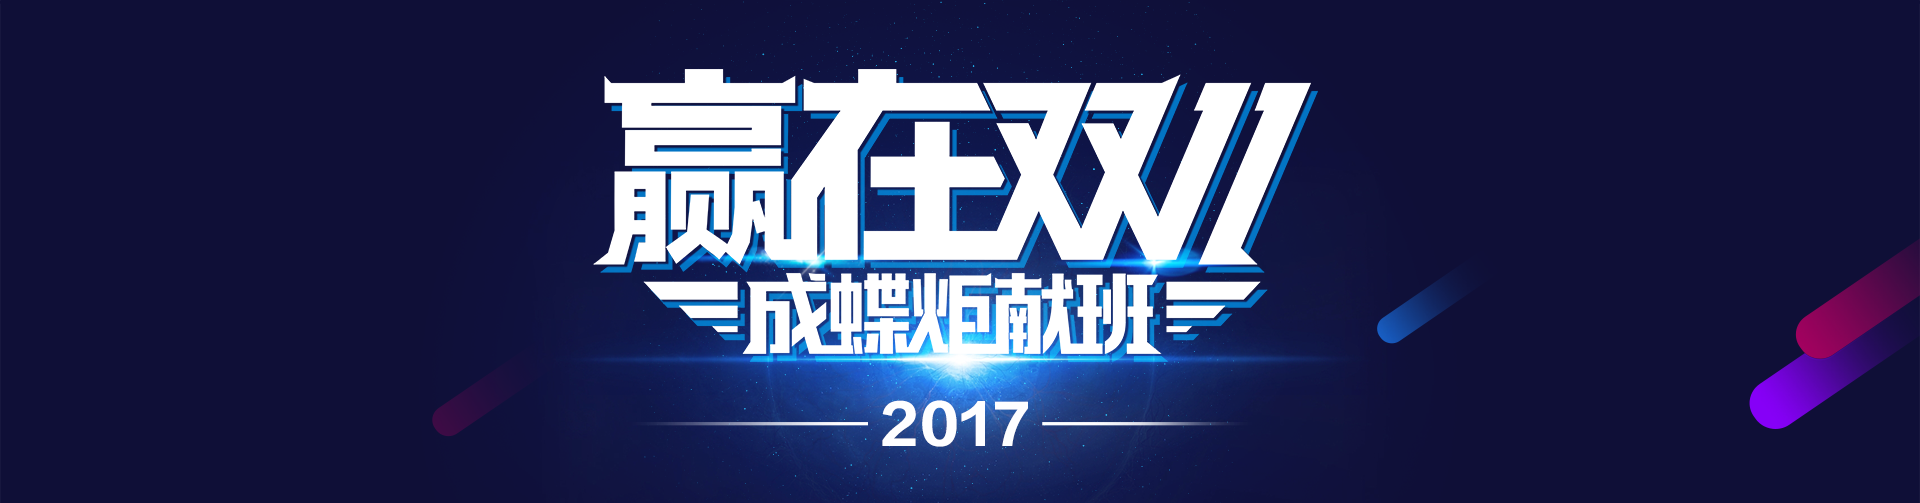
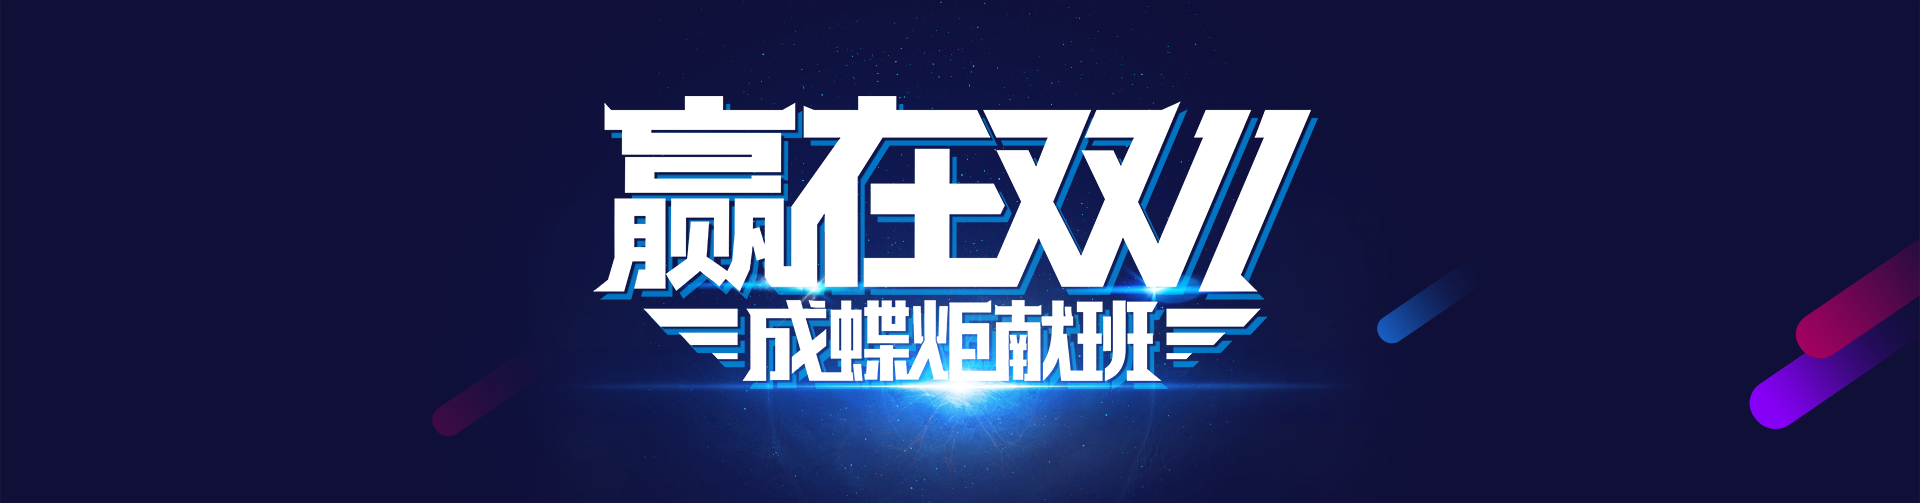
201709072237

Changed region(s): [[0.3125, 0.1193, 0.6875, 0.9245]]

diff --git a/borken.html b/borken.html
@@ -21,9 +21,26 @@
   <script type="text/javascript" src="js/broken.js"></script>
   <script type="text/javascript" src="js/common.js"></script>
 
+
+	<script>
+var _hmt = _hmt || [];
+(function() {
+  var hm = document.createElement("script");
+  hm.src = "https://hm.baidu.com/hm.js?81715133633c055f7a6b95026a4746d7";
+  var s = document.getElementsByTagName("script")[0]; 
+  s.parentNode.insertBefore(hm, s);
+})();
+</script>
+
+<script>(function() {var _53code = document.createElement("script");_53code.src = "https://tb.53kf.com/code/code/10097681/1";var s = document.getElementsByTagName("script")[0]; s.parentNode.insertBefore(_53code, s);})();
+</script>
+
 </head>
 
 <body>
+
+
+
 
 	  <div class="m-TD">
         <ul>
@@ -32,7 +49,7 @@
         </ul>
     </div>
 
-	<header class="header">
+  <header class="header">
     <div class="fixedWidth LogoT">
       <!--Logo-->
         <div class="LogoLeft ">          
@@ -67,23 +84,23 @@
     <div class="navTop">
           <ul class="nvavTopUl fixedWidth">
             <li class="navTopLi">
-              <a href="http://sz.pj.judingli.com?1" target="_blank" class="TopABtn">首页</a>
+              <a href="http://sz.pj.judingli.com?1" class="TopABtn">首页</a>
             </li>
 
             <li class="navTopLi">
-              <a href="http://sz.pj.judingli.com?2" target="_blank" class="TopABtn">培训课程</a>
+              <a href="http://sz.pj.judingli.com?2"  class="TopABtn">培训课程</a>
             </li>
 
             <li class="navTopLi">
-              <a href="http://sz.fh.judingli.com?3" target="_blank" class="TopABtn">电商孵化</a>
+              <a href="http://sz.fh.judingli.com?3" class="TopABtn">电商孵化</a>
             </li>
 
             <li class="navTopLi">
-              <a href="http://sz.11.judingli.com?4" target="_blank" class="TopABtn">双11特训营</a>
+              <a href="http://sz.11.judingli.com?4"  class="TopABtn">双11特训营</a>
             </li>
 
             <li class="navTopLi">
-              <a href="http://sz.sl.judingli.com?5" target="_blank" class="TopABtn">实力保障</a>
+              <a href="http://sz.sl.judingli.com?5"  class="TopABtn">实力保障</a>
             </li>
 
             <li class="navTopLi">
@@ -92,7 +109,7 @@
           </ul>
     </div>
 
-	</header>
+  </header>
 
 	<!--banner-->	
 	<div class="bannerCon">
@@ -321,7 +338,7 @@
 								Day04
 							</div>
 							<div class="sixDayS">
-								活动+绩效
+								运营决策玩法解析
 							</div>
 						</div>
 						<div class="hidetraingleD">
@@ -337,7 +354,7 @@
 								Day05
 							</div>
 							<div class="sixDayS">
-								数据化选品
+								活动+绩效
 							</div>
 						</div>
 						<div class="hidetraingleD">

diff --git a/Our.html b/Our.html
@@ -20,6 +20,18 @@
   <script type="text/javascript" src="js/jquery-1.11.3.min.js"></script>
   <script type="text/javascript" src="js/our.js"></script>
   <script type="text/javascript" src="js/common.js"></script>
+  <script>
+var _hmt = _hmt || [];
+(function() {
+  var hm = document.createElement("script");
+  hm.src = "https://hm.baidu.com/hm.js?81715133633c055f7a6b95026a4746d7";
+  var s = document.getElementsByTagName("script")[0]; 
+  s.parentNode.insertBefore(hm, s);
+})();
+</script>
+
+<script>(function() {var _53code = document.createElement("script");_53code.src = "https://tb.53kf.com/code/code/10097681/1";var s = document.getElementsByTagName("script")[0]; s.parentNode.insertBefore(_53code, s);})();
+</script>
 
 </head>
 
@@ -67,23 +79,23 @@
     <div class="navTop">
           <ul class="nvavTopUl fixedWidth">
             <li class="navTopLi">
-              <a href="http://sz.pj.judingli.com?1" target="_blank" class="TopABtn">首页</a>
+              <a href="http://sz.pj.judingli.com?1" class="TopABtn">首页</a>
             </li>
 
             <li class="navTopLi">
-              <a href="http://sz.pj.judingli.com?2" target="_blank" class="TopABtn">培训课程</a>
+              <a href="http://sz.pj.judingli.com?2"  class="TopABtn">培训课程</a>
             </li>
 
             <li class="navTopLi">
-              <a href="http://sz.fh.judingli.com?3" target="_blank" class="TopABtn">电商孵化</a>
+              <a href="http://sz.fh.judingli.com?3" class="TopABtn">电商孵化</a>
             </li>
 
             <li class="navTopLi">
-              <a href="http://sz.11.judingli.com?4" target="_blank" class="TopABtn">双11特训营</a>
+              <a href="http://sz.11.judingli.com?4"  class="TopABtn">双11特训营</a>
             </li>
 
             <li class="navTopLi">
-              <a href="http://sz.sl.judingli.com?5" target="_blank" class="TopABtn">实力保障</a>
+              <a href="http://sz.sl.judingli.com?5"  class="TopABtn">实力保障</a>
             </li>
 
             <li class="navTopLi">

diff --git a/fuhua.html b/fuhua.html
@@ -21,6 +21,21 @@
   <script type="text/javascript" src="js/fuhua.js"></script>
   <script type="text/javascript" src="js/common.js"></script>
 
+
+  <script>
+var _hmt = _hmt || [];
+(function() {
+  var hm = document.createElement("script");
+  hm.src = "https://hm.baidu.com/hm.js?81715133633c055f7a6b95026a4746d7";
+  var s = document.getElementsByTagName("script")[0]; 
+  s.parentNode.insertBefore(hm, s);
+})();
+</script>
+
+<script>(function() {var _53code = document.createElement("script");_53code.src = "https://tb.53kf.com/code/code/10097681/1";var s = document.getElementsByTagName("script")[0]; s.parentNode.insertBefore(_53code, s);})();
+</script> 
+
+
 </head>
 <body>
     <div class="m-TD">
@@ -65,23 +80,23 @@
     <div class="navTop">
           <ul class="nvavTopUl fixedWidth">
             <li class="navTopLi">
-              <a href="http://sz.pj.judingli.com?1" target="_blank" class="TopABtn">首页</a>
+              <a href="http://sz.pj.judingli.com?1" class="TopABtn">首页</a>
             </li>
 
             <li class="navTopLi">
-              <a href="http://sz.pj.judingli.com?2" target="_blank" class="TopABtn">培训课程</a>
+              <a href="http://sz.pj.judingli.com?2"  class="TopABtn">培训课程</a>
             </li>
 
             <li class="navTopLi">
-              <a href="http://sz.fh.judingli.com?3" target="_blank" class="TopABtn">电商孵化</a>
+              <a href="http://sz.fh.judingli.com?3" class="TopABtn">电商孵化</a>
             </li>
 
             <li class="navTopLi">
-              <a href="http://sz.11.judingli.com?4" target="_blank" class="TopABtn">双11特训营</a>
+              <a href="http://sz.11.judingli.com?4"  class="TopABtn">双11特训营</a>
             </li>
 
             <li class="navTopLi">
-              <a href="http://sz.sl.judingli.com?5" target="_blank" class="TopABtn">实力保障</a>
+              <a href="http://sz.sl.judingli.com?5"  class="TopABtn">实力保障</a>
             </li>
 
             <li class="navTopLi">

diff --git a/sell.html b/sell.html
@@ -21,6 +21,19 @@
   <script type="text/javascript" src="js/sell.js"></script>
   <script type="text/javascript" src="js/common.js"></script>
 
+  <script>
+var _hmt = _hmt || [];
+(function() {
+  var hm = document.createElement("script");
+  hm.src = "https://hm.baidu.com/hm.js?81715133633c055f7a6b95026a4746d7";
+  var s = document.getElementsByTagName("script")[0]; 
+  s.parentNode.insertBefore(hm, s);
+})();
+</script>
+
+<script>(function() {var _53code = document.createElement("script");_53code.src = "https://tb.53kf.com/code/code/10097681/1";var s = document.getElementsByTagName("script")[0]; s.parentNode.insertBefore(_53code, s);})();
+</script>
+
 </head>
 
 <body>
@@ -67,23 +80,23 @@
     <div class="navTop">
           <ul class="nvavTopUl fixedWidth">
             <li class="navTopLi">
-              <a href="http://sz.pj.judingli.com?1" target="_blank" class="TopABtn">首页</a>
+              <a href="http://sz.pj.judingli.com?1" class="TopABtn">首页</a>
             </li>
 
             <li class="navTopLi">
-              <a href="http://sz.pj.judingli.com?2" target="_blank" class="TopABtn">培训课程</a>
+              <a href="http://sz.pj.judingli.com?2"  class="TopABtn">培训课程</a>
             </li>
 
             <li class="navTopLi">
-              <a href="http://sz.fh.judingli.com?3" target="_blank" class="TopABtn">电商孵化</a>
+              <a href="http://sz.fh.judingli.com?3" class="TopABtn">电商孵化</a>
             </li>
 
             <li class="navTopLi">
-              <a href="http://sz.11.judingli.com?4" target="_blank" class="TopABtn">双11特训营</a>
+              <a href="http://sz.11.judingli.com?4"  class="TopABtn">双11特训营</a>
             </li>
 
             <li class="navTopLi">
-              <a href="http://sz.sl.judingli.com?5" target="_blank" class="TopABtn">实力保障</a>
+              <a href="http://sz.sl.judingli.com?5"  class="TopABtn">实力保障</a>
             </li>
 
             <li class="navTopLi">

diff --git a/css/sell.css b/css/sell.css
@@ -18,7 +18,7 @@ html,body{
 .bannerCon1{
 	background:url(../images/sell/banner1.png) top center no-repeat;
 	margin:auto;
-	height: 407px;
+	height: 494px;
 }
 
 .bannerC1Iner{
@@ -44,7 +44,7 @@ html,body{
 
 .bannerCon2{
 	background:url(../images/sell/banner2.png) 0 0 no-repeat;
-	height: 480px;
+	height: 398px;
 }
 
 .bannerC2Title{
@@ -1135,35 +1135,42 @@ background:url(../images/sell/viewcontent24.png) 0 0 no-repeat;
 	width: 100px;
 	height: 100px;
 	border-radius: 50%;
+	display: none;
 }
 
 .coachNewItemIntroCon{
-	border:1px solid #8f9399;
+	/*border:1px solid #8f9399;*/
 	padding: 5%;
 	font-size: 16px;
 	line-height: 20px;
-	color:#8f9399;
+	/*color:#8f9399;*/	
 	height: 220px;
 	text-align: left;
 	overflow: hidden;
 	margin-top:-20px;
 	padding-top:30px;
+
+	border:1px solid #0562fd;
+	color:#0e1445;
+
 }
 
 .coachNewItemName{
-	background-color: #8f9399;
+	/*background-color: #8f9399;*/
 	padding:1.4rem 0;
 	font-size: 25px;
 	font-weight: bold;
 	line-height: 27px;
 	color:#fff;
+
+		background-color: #0562fd;
 }
 
 .coachNewItem:hover
 {	
 	cursor: pointer;
 }
-
+/*
 .coachNewItem:hover .coachNewItemName{
 	background-color: #0562fd;
 }
@@ -1179,4 +1186,4 @@ background:url(../images/sell/viewcontent24.png) 0 0 no-repeat;
 
 .coachNewItem:hover .coiachTeacherHeadImg{
 	border:1px solid #0562fd;
-}
+}*/

diff --git a/js/sell.js b/js/sell.js
@@ -31,4 +31,24 @@ $(function(){
 		$(this).addClass('courseItemhover').siblings().removeClass('courseItemhover');
 		$("div.surperCourseCon:eq("+index+")").removeClass('hidden').siblings().addClass('hidden');
 	});
+
+
+	//coach
+	$("div.coachNewItem").hover(function(){
+
+		var index = $(this).index();
+
+		$(this).siblings().find('.coachTeacherHeadShadow').stop().fadeIn();
+		$(this).siblings().find('.coiachTeacherHeadImg').css('border','1px solid #8f9399');		
+		$(this).siblings().find('.coachNewItemIntroCon').css({'border':'1px solid #8f9399','color':'#8f9399'});
+		$(this).siblings().find('.coachNewItemName').css('background-color','#8f9399');		
+
+
+	},function(){
+
+		$(this).siblings().find('.coachTeacherHeadShadow').stop().fadeOut();
+		$(this).siblings().find('.coiachTeacherHeadImg').css('border','1px solid #0562fd');
+		$(this).siblings().find('.coachNewItemIntroCon').css({'border':'1px solid #0562fd','color':'#0e1445'});
+		$(this).siblings().find('.coachNewItemName').css('background-color','#0562fd');		
+	});
 });
